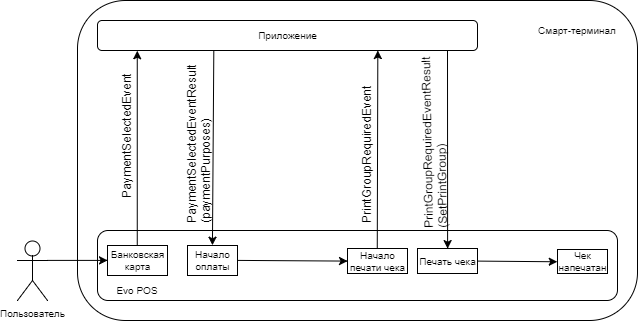
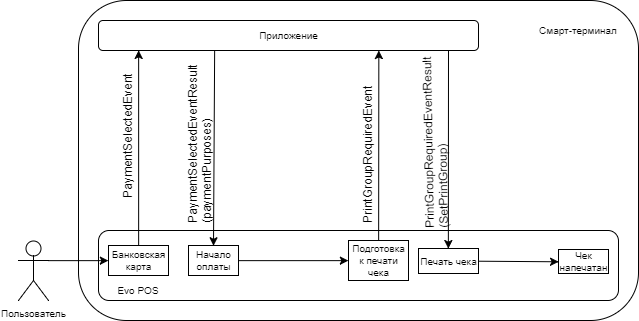
comments accepted

diff --git a/docsReleased/doc_receipt_division.html b/docsReleased/doc_receipt_division.html
@@ -564,6 +564,13 @@ $('#toc').on('click', 'a', function() {
 </code></pre>
 </div>
 
+<p>Где:</p>
+
+<ul>
+  <li><code class="highlighter-rouge">evo.v2.receipt.sell.payment.SELECTED</code> – сообщает о разделении платежей.</li>
+  <li><code class="highlighter-rouge">evo.v2.receipt.sell.printGroup.REQUIRED</code> – сообщает о разделении чека на несколько печатных групп.</li>
+</ul>
+
 <h3 id="section-1">Разделение чека</h3>
 
 <p>Схема разделения чека выглядит следующим образом:</p>
@@ -576,46 +583,116 @@ $('#toc').on('click', 'a', function() {
   <li>Пользователь выбирает тип оплаты <strong>Банковская карта</strong>.</li>
   <li>EvoPOS передаёт событие <code class="highlighter-rouge">PaymentSelectedEvent</code> и ожидает ответа от приложений.</li>
   <li>
-    <p>Приложение может разделить чек на несколько платежей в счёт одного или нескольких юридических лиц. Данные о соответствии платежей и счетов приложение возвращает в результате <code class="highlighter-rouge">PaymentSelectedEventResult</code>. Данные описаны в классе <code class="highlighter-rouge">PaymentPurpose</code>.</p>
+    <p><a href="./doc_receipt_division.html#severalPayments">Приложение может разделить чек на несколько платежей</a> в счёт одного или нескольких юридических лиц.</p>
 
-    <p>Чтобы получить список счетов, доступных на данном смарт-терминале, <a href="./doc_receipt_division.html#PaymentApiMethods">воспользуйтесь методом</a> <code class="highlighter-rouge">getPaymentSystems</code>, класса <code class="highlighter-rouge">PaymentApi</code>.</p>
+    <p>Приложение возвращает данные о соответствии счетов и платежей в объекте <code class="highlighter-rouge">PaymentSelectedEventResult</code> и указывает разделение платежей в объекте <code class="highlighter-rouge">PaymentPurpose</code>.</p>
+
+    <p>Каждый из платежей, указанных в <code class="highlighter-rouge">PaymentPurpose</code> содержит:</p>
+
+    <ul>
+      <li>собственный идентификатор объекта PaymentPurpose, который можно использовать для сопоставления платежа и печатной группы;</li>
+      <li>сумму платежа;</li>
+      <li>идентификаторы платёжной системы и счёта в ней;</li>
+      <li>текст, который отображается пользователю при проведении данного платежа.</li>
+    </ul>
+
+    <p>В данный момент поддерживается разделение только в рамках той системы оплаты, которую выбрал пользователь. Разделение на различные системы оплаты (комбинированная оплата) не поддерживается.</p>
+
+    <p>Чтобы получить список счетов, доступных на данном смарт-терминале, <a href="./doc_receipt_division.html#PaymentSystemApiMethods">воспользуйтесь методом</a> <code class="highlighter-rouge">getPaymentSystems</code>, класса <code class="highlighter-rouge">PaymentSystemApi</code>.</p>
 
     <p>Используйте команду <code class="highlighter-rouge">SetExtra</code>, чтобы добавить к чеку <a href="./doc_receipt_extras.html">дополнительные поля</a>.</p>
   </li>
   <li>
-    <p>На основе данных, полученных от приложения, EvoPOS совершает платёж и начинает печать чека. При этом, EvoPOS передаёт событие <code class="highlighter-rouge">PrintGroupRequiredEvent</code> и ожидает ответа от приложений.</p>
+    <p>На основе данных, полученных от приложения, EvoPOS совершает платежи и начинает печать чека. Перед печатью чека EvoPOS передаёт событие <code class="highlighter-rouge">PrintGroupRequiredEvent</code> и ожидает ответа от приложений.</p>
   </li>
   <li>
-    <p>Приложение может напечатать несколько разных платежей в рамках одного чека или разделить платежи на несколько чеков. Данные о платежах и соответствующих чеках приложение передаёт в <em>печатных группах</em>. Приложение задаёт печатные группы с помощью команды <code class="highlighter-rouge">SetPrintGroup</code> и возвращает в результате <code class="highlighter-rouge">PrintGroupRequiredEventResult</code>.</p>
+    <p><a href="./doc_receipt_division.html#severalPintGroups">Приложение может напечатать несколько разных печатных документов</a> и разделить платежи на между ними. Данные о платежах и соответствующих чеках приложение передаёт в <em>печатных группах</em>.</p>
+
+    <p>Приложение передаёт данные о печатных документах, закреплённых за ними позициях и соответствующих платежах в объекте <code class="highlighter-rouge">PrintGroupRequiredEventResult</code>, которому соответствует список объектов <code class="highlighter-rouge">SetPrintGroup</code>.</p>
+
+    <p>Для каждого объекта <code class="highlighter-rouge">SetPrintGroup</code> приложение указывает:</p>
+
+    <ul>
+      <li>печатную группу (<code class="highlighter-rouge">PrintGroup</code>);</li>
+      <li>список идентификаторов платежей (<code class="highlighter-rouge">paymentPurposeIds</code>);</li>
+      <li>список иденификаторов позиций в формате uuid4 (<code class="highlighter-rouge">positionUuids</code>)</li>
+    </ul>
+
+    <p>В печатной группе приложение указывает:</p>
+
+    <ul>
+      <li>идентификатор печатной группы;</li>
+      <li>тип чека (фискальный, ЕНВД, квитанция);</li>
+      <li>систему налогообложения;</li>
+      <li>реквизиты организации (название, ИНН, адрес).</li>
+    </ul>
 
     <p>Используйте команду <code class="highlighter-rouge">SetExtra</code>, чтобы добавить к чеку <a href="./doc_receipt_extras.html">дополнительные поля</a>.</p>
-
-    <p>Класс <code class="highlighter-rouge">PrintGroup</code> содержит описание полей, которые соответствуют печатной группе.</p>
   </li>
   <li>EvoPOS печатает чек в соответствии с полученными печатными группами.</li>
 </ol>
 
-<h3 id="PaymentApiMethods">Методы Payment API</h3>
+<h3 id="PaymentSystemApiMethods">Методы PaymentSystem API</h3>
 
-<p>Используйте класс <code class="highlighter-rouge">PaymentApi</code>.</p>
+<p>Используйте класс <code class="highlighter-rouge">PaymentSystemApi</code>.</p>
 
-<p>Получить список доступных на смарт-терминале получателей платежа:</p>
+<p>Получить список платёжных систем, а также их учётных записей, доступных на смарт-терминале:</p>
 
-<div class="language-java highlighter-rouge"><pre class="highlight"><code><span class="n">fun</span> <span class="nf">getPaymentSystems</span><span class="o">(</span><span class="nl">context:</span> <span class="n">Context</span><span class="o">):</span> <span class="n">MutableList</span><span class="o">&lt;</span><span class="n">Pair</span><span class="o">&lt;</span><span class="n">PaymentSystem</span><span class="o">,</span> <span class="n">MutableList</span><span class="o">&lt;</span><span class="n">PaymentAccount</span><span class="o">&gt;&gt;&gt;</span>
+<div class="language-java highlighter-rouge"><pre class="highlight"><code><span class="n">fun</span> <span class="nf">getPaymentSystems</span><span class="o">(</span><span class="nl">context:</span> <span class="n">Context</span><span class="o">):</span> <span class="n">List</span><span class="o">&lt;</span><span class="n">Pair</span><span class="o">&lt;</span><span class="n">PaymentSystem</span><span class="o">,</span> <span class="n">List</span><span class="o">&lt;</span><span class="n">PaymentAccount</span><span class="o">&gt;&gt;&gt;</span>
 </code></pre>
 </div>
 
-<p>Где:</p>
+<p>Метод возвращает список доступных на терминале платёжных систем (<code class="highlighter-rouge">PaymentSystem</code>) и соответствующих им счетов (<code class="highlighter-rouge">PaymentAccount</code>). Счета можно получить у приложений, которые реализуют различные способы оплаты.</p>
+
+<p>Объекты <code class="highlighter-rouge">PaymentSystem</code> содержат:</p>
 
 <ul>
-  <li><code class="highlighter-rouge">context</code> – контекст приложения.</li>
-  <li><code class="highlighter-rouge">PaymentSystem</code> – тип платёжной системы. В данный момент, для разеделения чека доступен один тип – безналичный расчёт (<code class="highlighter-rouge">ELECTRON</code>). Содержит описание (<code class="highlighter-rouge">userDescription</code>) и тип оплаты (<code class="highlighter-rouge">paymentType</code>) в формате <code class="highlighter-rouge">string</code>. Оба атрибута могут принимать значение <code class="highlighter-rouge">null</code>.</li>
-  <li><code class="highlighter-rouge">PaymentAccount</code> – счёт получателя платежа. Содержит описание (<code class="highlighter-rouge">userDescription</code>) и идентификатор счёта (<code class="highlighter-rouge">accountId</code>) в формате <code class="highlighter-rouge">string</code>. Оба атрибута могут принимать значение <code class="highlighter-rouge">null</code>.</li>
+  <li>тип платёжной системы (наличные, электронные платежи, другие);</li>
+  <li>название, которое можно отобразить пользователю;</li>
+  <li>постоянный идентификатор платёжной системы в терминале.</li>
+</ul>
+
+<p>Объекты <code class="highlighter-rouge">PaymentAccount</code> содержат:</p>
+
+<ul>
+  <li>идентификатор счёта в рамках платёжной системы;</li>
+  <li>название счёта, которое можно отобразить пользователю.</li>
 </ul>
 
 <h3 id="section-2">Примеры</h3>
 
-<p>####Разделение чека на несколько печатных групп</p>
+<h4 id="severalPayments">Разделение платежей в чеке</h4>
+
+<div class="language-java highlighter-rouge"><pre class="highlight"><code>        <span class="n">processorMap</span><span class="o">.</span><span class="na">put</span><span class="o">(</span>
+                <span class="n">PaymentSelectedEvent</span><span class="o">.</span><span class="na">NAME_SELL_RECEIPT</span><span class="o">,</span>
+                <span class="k">new</span> <span class="nf">PaymentSelectedEventProcessor</span><span class="o">()</span> <span class="o">{</span>
+                    <span class="nd">@Override</span>
+                    <span class="kd">public</span> <span class="kt">void</span> <span class="nf">call</span><span class="o">(</span><span class="nd">@NonNull</span> <span class="n">String</span> <span class="n">s</span><span class="o">,</span> <span class="nd">@NonNull</span> <span class="n">PaymentSelectedEvent</span>
+                            <span class="n">paymentSelectedEvent</span><span class="o">,</span> <span class="nd">@NonNull</span> <span class="n">Callback</span> <span class="n">callback</span><span class="o">)</span> <span class="o">{</span>
+                        <span class="n">List</span><span class="o">&lt;</span><span class="n">PaymentPurpose</span><span class="o">&gt;</span> <span class="n">paymentParts</span> <span class="o">=</span> <span class="k">new</span> <span class="n">ArrayList</span><span class="o">&lt;</span><span class="n">PaymentPurpose</span><span class="o">&gt;();</span>
+                        <span class="n">String</span> <span class="n">psId</span> <span class="o">=</span> <span class="n">paymentSelectedEvent</span><span class="o">.</span><span class="na">getPaymentSystem</span><span class="o">().</span><span class="na">getPaymentSystemId</span><span class="o">();</span>
+                        <span class="n">paymentParts</span><span class="o">.</span><span class="na">add</span><span class="o">(</span><span class="k">new</span> <span class="n">PaymentPurpose</span><span class="o">(</span><span class="s">"-1-"</span><span class="o">,</span> <span class="n">psId</span><span class="o">,</span> <span class="k">new</span> <span class="n">BigDecimal</span><span class="o">(</span><span class="mi">3</span><span class="o">),</span> <span class="s">"0"</span><span class="o">,</span> <span class="s">"платёж клиента 1"</span><span class="o">));</span>
+                        <span class="n">paymentParts</span><span class="o">.</span><span class="na">add</span><span class="o">(</span><span class="k">new</span> <span class="n">PaymentPurpose</span><span class="o">(</span><span class="s">"-2-"</span><span class="o">,</span> <span class="n">psId</span><span class="o">,</span> <span class="k">new</span> <span class="n">BigDecimal</span><span class="o">(</span><span class="mi">5</span><span class="o">),</span> <span class="s">"0"</span><span class="o">,</span> <span class="s">"платёж клиента 2"</span><span class="o">));</span>
+                        <span class="n">paymentParts</span><span class="o">.</span><span class="na">add</span><span class="o">(</span><span class="k">new</span> <span class="n">PaymentPurpose</span><span class="o">(</span><span class="s">"-3-"</span><span class="o">,</span> <span class="n">psId</span><span class="o">,</span> <span class="k">new</span> <span class="n">BigDecimal</span><span class="o">(</span><span class="mi">2</span><span class="o">),</span> <span class="s">"0"</span><span class="o">,</span> <span class="s">"платёж клиента 3"</span><span class="o">));</span>
+                        <span class="n">paymentParts</span><span class="o">.</span><span class="na">add</span><span class="o">(</span><span class="k">new</span> <span class="n">PaymentPurpose</span><span class="o">(</span><span class="s">"-4-"</span><span class="o">,</span> <span class="n">psId</span><span class="o">,</span> <span class="k">new</span> <span class="n">BigDecimal</span><span class="o">(</span><span class="mi">10</span><span class="o">),</span> <span class="s">"0"</span><span class="o">,</span> <span class="s">"платёж клиента 4"</span><span class="o">));</span>
+
+                        <span class="k">try</span> <span class="o">{</span>
+                            <span class="n">callback</span><span class="o">.</span><span class="na">onResult</span><span class="o">(</span>
+                                    <span class="k">new</span> <span class="nf">PaymentSelectedEventResult</span><span class="o">(</span>
+                                            <span class="kc">null</span><span class="o">,</span>
+                                            <span class="n">paymentParts</span>
+                                    <span class="o">).</span><span class="na">toBundle</span><span class="o">()</span>
+                            <span class="o">);</span>
+                        <span class="o">}</span> <span class="k">catch</span> <span class="o">(</span><span class="n">RemoteException</span> <span class="n">exc</span><span class="o">)</span> <span class="o">{</span>
+                            <span class="n">exc</span><span class="o">.</span><span class="na">printStackTrace</span><span class="o">();</span>
+                        <span class="o">}</span>
+                    <span class="o">}</span>
+                <span class="o">}</span>
+        <span class="o">);</span>
+</code></pre>
+</div>
+
+<h4 id="severalPrintGroups">Разделение чека на несколько печатных групп</h4>
 
 <div class="language-java highlighter-rouge"><pre class="highlight"><code><span class="n">processorMap</span><span class="o">.</span><span class="na">put</span><span class="o">(</span>
                 <span class="n">PrintGroupRequiredEvent</span><span class="o">.</span><span class="na">NAME_SELL_RECEIPT</span><span class="o">,</span>
@@ -649,37 +726,6 @@ $('#toc').on('click', 'a', function() {
                                             <span class="kc">null</span><span class="o">,</span>
                                             <span class="n">setPrintGroups</span>
                                     <span class="o">)</span>
-                            <span class="o">);</span>
-                        <span class="o">}</span> <span class="k">catch</span> <span class="o">(</span><span class="n">RemoteException</span> <span class="n">exc</span><span class="o">)</span> <span class="o">{</span>
-                            <span class="n">exc</span><span class="o">.</span><span class="na">printStackTrace</span><span class="o">();</span>
-                        <span class="o">}</span>
-                    <span class="o">}</span>
-                <span class="o">}</span>
-        <span class="o">);</span>
-</code></pre>
-</div>
-
-<h4 id="section-3">Разделение платежей в чеке</h4>
-
-<div class="language-java highlighter-rouge"><pre class="highlight"><code>        <span class="n">processorMap</span><span class="o">.</span><span class="na">put</span><span class="o">(</span>
-                <span class="n">PaymentSelectedEvent</span><span class="o">.</span><span class="na">NAME_SELL_RECEIPT</span><span class="o">,</span>
-                <span class="k">new</span> <span class="nf">PaymentSelectedEventProcessor</span><span class="o">()</span> <span class="o">{</span>
-                    <span class="nd">@Override</span>
-                    <span class="kd">public</span> <span class="kt">void</span> <span class="nf">call</span><span class="o">(</span><span class="nd">@NonNull</span> <span class="n">String</span> <span class="n">s</span><span class="o">,</span> <span class="nd">@NonNull</span> <span class="n">PaymentSelectedEvent</span>
-                            <span class="n">paymentSelectedEvent</span><span class="o">,</span> <span class="nd">@NonNull</span> <span class="n">Callback</span> <span class="n">callback</span><span class="o">)</span> <span class="o">{</span>
-                        <span class="n">List</span><span class="o">&lt;</span><span class="n">PaymentPurpose</span><span class="o">&gt;</span> <span class="n">paymentParts</span> <span class="o">=</span> <span class="k">new</span> <span class="n">ArrayList</span><span class="o">&lt;</span><span class="n">PaymentPurpose</span><span class="o">&gt;();</span>
-
-                        <span class="n">paymentParts</span><span class="o">.</span><span class="na">add</span><span class="o">(</span><span class="k">new</span> <span class="n">PaymentPurpose</span><span class="o">(</span><span class="s">"-1-"</span><span class="o">,</span> <span class="k">new</span> <span class="n">BigDecimal</span><span class="o">(</span><span class="mi">3</span><span class="o">),</span> <span class="s">"0"</span><span class="o">,</span> <span class="s">"платёж клиента 1"</span><span class="o">));</span>
-                        <span class="n">paymentParts</span><span class="o">.</span><span class="na">add</span><span class="o">(</span><span class="k">new</span> <span class="n">PaymentPurpose</span><span class="o">(</span><span class="s">"-2-"</span><span class="o">,</span> <span class="k">new</span> <span class="n">BigDecimal</span><span class="o">(</span><span class="mi">5</span><span class="o">),</span> <span class="s">"0"</span><span class="o">,</span> <span class="s">"платёж клиента 2"</span><span class="o">));</span>
-                        <span class="n">paymentParts</span><span class="o">.</span><span class="na">add</span><span class="o">(</span><span class="k">new</span> <span class="n">PaymentPurpose</span><span class="o">(</span><span class="s">"-3-"</span><span class="o">,</span> <span class="k">new</span> <span class="n">BigDecimal</span><span class="o">(</span><span class="mi">2</span><span class="o">),</span> <span class="s">"0"</span><span class="o">,</span> <span class="s">"платёж клиента 3"</span><span class="o">));</span>
-                        <span class="n">paymentParts</span><span class="o">.</span><span class="na">add</span><span class="o">(</span><span class="k">new</span> <span class="n">PaymentPurpose</span><span class="o">(</span><span class="s">"-4-"</span><span class="o">,</span> <span class="k">new</span> <span class="n">BigDecimal</span><span class="o">(</span><span class="mi">10</span><span class="o">),</span> <span class="s">"0"</span><span class="o">,</span> <span class="s">"платёж клиента 4"</span><span class="o">));</span>
-
-                        <span class="k">try</span> <span class="o">{</span>
-                            <span class="n">callback</span><span class="o">.</span><span class="na">onResult</span><span class="o">(</span>
-                                    <span class="k">new</span> <span class="nf">PaymentSelectedEventResult</span><span class="o">(</span>
-                                            <span class="kc">null</span><span class="o">,</span>
-                                            <span class="n">paymentParts</span>
-                                    <span class="o">).</span><span class="na">toBundle</span><span class="o">()</span>
                             <span class="o">);</span>
                         <span class="o">}</span> <span class="k">catch</span> <span class="o">(</span><span class="n">RemoteException</span> <span class="n">exc</span><span class="o">)</span> <span class="o">{</span>
                             <span class="n">exc</span><span class="o">.</span><span class="na">printStackTrace</span><span class="o">();</span>

diff --git a/pages/evotordoc/smart_terminal_SDK/doc_receipt_division.md b/pages/evotordoc/smart_terminal_SDK/doc_receipt_division.md
@@ -18,6 +18,11 @@ published: true
 <action android:name="evo.v2.receipt.sell.printGroup.REQUIRED" />
 ```
 
+Где:
+
+* `evo.v2.receipt.sell.payment.SELECTED` – сообщает о разделении платежей.
+* `evo.v2.receipt.sell.printGroup.REQUIRED` – сообщает о разделении чека на несколько печатных групп.
+
 ### Разделение чека
 
 Схема разделения чека выглядит следующим образом:
@@ -28,41 +33,103 @@ published: true
 
 1. Пользователь выбирает тип оплаты **Банковская карта**.
 2. EvoPOS передаёт событие `PaymentSelectedEvent` и ожидает ответа от приложений.
-3. Приложение может разделить чек на несколько платежей в счёт одного или нескольких юридических лиц. Данные о соответствии платежей и счетов приложение возвращает в результате `PaymentSelectedEventResult`. Данные описаны в классе `PaymentPurpose`.
+3. [Приложение может разделить чек на несколько платежей](./doc_receipt_division.html#severalPayments) в счёт одного или нескольких юридических лиц.
 
-    Чтобы получить список счетов, доступных на данном смарт-терминале, [воспользуйтесь методом](./doc_receipt_division.html#PaymentApiMethods) `getPaymentSystems`, класса `PaymentApi`.
+    Приложение возвращает данные о соответствии счетов и платежей в объекте `PaymentSelectedEventResult` и указывает разделение платежей в объекте `PaymentPurpose`.
+
+    Каждый из платежей, указанных в `PaymentPurpose` содержит:
+
+    * собственный идентификатор объекта PaymentPurpose, который можно использовать для сопоставления платежа и печатной группы;
+    * сумму платежа;
+    * идентификаторы платёжной системы и счёта в ней;
+    * текст, который отображается пользователю при проведении данного платежа.
+
+    В данный момент поддерживается разделение только в рамках той системы оплаты, которую выбрал пользователь. Разделение на различные системы оплаты (комбинированная оплата) не поддерживается.
+
+    Чтобы получить список счетов, доступных на данном смарт-терминале, [воспользуйтесь методом](./doc_receipt_division.html#PaymentSystemApiMethods) `getPaymentSystems`, класса `PaymentSystemApi`.
 
     Используйте команду `SetExtra`, чтобы добавить к чеку [дополнительные поля](./doc_receipt_extras.html).
 
-4. На основе данных, полученных от приложения, EvoPOS совершает платёж и начинает печать чека. При этом, EvoPOS передаёт событие `PrintGroupRequiredEvent` и ожидает ответа от приложений.
+4. На основе данных, полученных от приложения, EvoPOS совершает платежи и начинает печать чека. Перед печатью чека EvoPOS передаёт событие `PrintGroupRequiredEvent` и ожидает ответа от приложений.
 
-5. Приложение может напечатать несколько разных платежей в рамках одного чека или разделить платежи на несколько чеков. Данные о платежах и соответствующих чеках приложение передаёт в *печатных группах*. Приложение задаёт печатные группы с помощью команды `SetPrintGroup` и возвращает в результате `PrintGroupRequiredEventResult`.
+5. [Приложение может напечатать несколько разных печатных документов](./doc_receipt_division.html#severalPintGroups) и разделить платежи на между ними. Данные о платежах и соответствующих чеках приложение передаёт в *печатных группах*.
+
+    Приложение передаёт данные о печатных документах, закреплённых за ними позициях и соответствующих платежах в объекте `PrintGroupRequiredEventResult`, которому соответствует список объектов `SetPrintGroup`.
+
+    Для каждого объекта `SetPrintGroup` приложение указывает:
+
+    * печатную группу (`PrintGroup`);
+    * список идентификаторов платежей (`paymentPurposeIds`);
+    * список иденификаторов позиций в формате uuid4 (`positionUuids`)
+
+    В печатной группе приложение указывает:
+
+    * идентификатор печатной группы;
+    * тип чека (фискальный, ЕНВД, квитанция);
+    * систему налогообложения;
+    * реквизиты организации (название, ИНН, адрес).
 
     Используйте команду `SetExtra`, чтобы добавить к чеку [дополнительные поля](./doc_receipt_extras.html).
-
-    Класс `PrintGroup` содержит описание полей, которые соответствуют печатной группе.
 
 6. EvoPOS печатает чек в соответствии с полученными печатными группами.
 
-### Методы Payment API {#PaymentApiMethods}
+### Методы PaymentSystem API {#PaymentSystemApiMethods}
 
-Используйте класс `PaymentApi`.
+Используйте класс `PaymentSystemApi`.
 
-Получить список доступных на смарт-терминале получателей платежа:
+Получить список платёжных систем, а также их учётных записей, доступных на смарт-терминале:
 
 ```java
-fun getPaymentSystems(context: Context): MutableList<Pair<PaymentSystem, MutableList<PaymentAccount>>>
+fun getPaymentSystems(context: Context): List<Pair<PaymentSystem, List<PaymentAccount>>>
 ```
 
-Где:
+Метод возвращает список доступных на терминале платёжных систем (`PaymentSystem`) и соответствующих им счетов (`PaymentAccount`). Счета можно получить у приложений, которые реализуют различные способы оплаты.
 
-* `context` – контекст приложения.
-* `PaymentSystem` – тип платёжной системы. В данный момент, для разеделения чека доступен один тип – безналичный расчёт (`ELECTRON`). Содержит описание (`userDescription`) и тип оплаты (`paymentType`) в формате `string`. Оба атрибута могут принимать значение `null`.
-* `PaymentAccount` – счёт получателя платежа. Содержит описание (`userDescription`) и идентификатор счёта (`accountId`) в формате `string`. Оба атрибута могут принимать значение `null`.
+Объекты `PaymentSystem` содержат:
+
+* тип платёжной системы (наличные, электронные платежи, другие);
+* название, которое можно отобразить пользователю;
+* постоянный идентификатор платёжной системы в терминале.
+
+Объекты `PaymentAccount` содержат:
+
+* идентификатор счёта в рамках платёжной системы;
+* название счёта, которое можно отобразить пользователю.
 
 ### Примеры
 
-####Разделение чека на несколько печатных групп
+#### Разделение платежей в чеке {#severalPayments}
+
+```java
+        processorMap.put(
+                PaymentSelectedEvent.NAME_SELL_RECEIPT,
+                new PaymentSelectedEventProcessor() {
+                    @Override
+                    public void call(@NonNull String s, @NonNull PaymentSelectedEvent
+                            paymentSelectedEvent, @NonNull Callback callback) {
+                        List<PaymentPurpose> paymentParts = new ArrayList<PaymentPurpose>();
+                        String psId = paymentSelectedEvent.getPaymentSystem().getPaymentSystemId();
+                        paymentParts.add(new PaymentPurpose("-1-", psId, new BigDecimal(3), "0", "платёж клиента 1"));
+                        paymentParts.add(new PaymentPurpose("-2-", psId, new BigDecimal(5), "0", "платёж клиента 2"));
+                        paymentParts.add(new PaymentPurpose("-3-", psId, new BigDecimal(2), "0", "платёж клиента 3"));
+                        paymentParts.add(new PaymentPurpose("-4-", psId, new BigDecimal(10), "0", "платёж клиента 4"));
+
+                        try {
+                            callback.onResult(
+                                    new PaymentSelectedEventResult(
+                                            null,
+                                            paymentParts
+                                    ).toBundle()
+                            );
+                        } catch (RemoteException exc) {
+                            exc.printStackTrace();
+                        }
+                    }
+                }
+        );
+```
+
+#### Разделение чека на несколько печатных групп {#severalPrintGroups}
 
 ```java
 processorMap.put(
@@ -97,37 +164,6 @@ processorMap.put(
                                             null,
                                             setPrintGroups
                                     )
-                            );
-                        } catch (RemoteException exc) {
-                            exc.printStackTrace();
-                        }
-                    }
-                }
-        );
-```
-
-#### Разделение платежей в чеке
-
-```java
-        processorMap.put(
-                PaymentSelectedEvent.NAME_SELL_RECEIPT,
-                new PaymentSelectedEventProcessor() {
-                    @Override
-                    public void call(@NonNull String s, @NonNull PaymentSelectedEvent
-                            paymentSelectedEvent, @NonNull Callback callback) {
-                        List<PaymentPurpose> paymentParts = new ArrayList<PaymentPurpose>();
-
-                        paymentParts.add(new PaymentPurpose("-1-", new BigDecimal(3), "0", "платёж клиента 1"));
-                        paymentParts.add(new PaymentPurpose("-2-", new BigDecimal(5), "0", "платёж клиента 2"));
-                        paymentParts.add(new PaymentPurpose("-3-", new BigDecimal(2), "0", "платёж клиента 3"));
-                        paymentParts.add(new PaymentPurpose("-4-", new BigDecimal(10), "0", "платёж клиента 4"));
-
-                        try {
-                            callback.onResult(
-                                    new PaymentSelectedEventResult(
-                                            null,
-                                            paymentParts
-                                    ).toBundle()
                             );
                         } catch (RemoteException exc) {
                             exc.printStackTrace();
